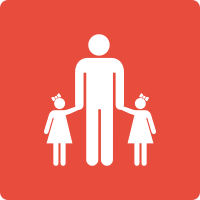
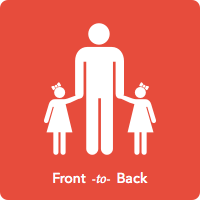
f2b sidebar

diff --git a/source/_includes/header.html b/source/_includes/header.html
@@ -12,19 +12,26 @@
 </div>
 {% include custom/header.html %}
 <nav id="marketing">
-    <p class="apps">I've made some Apps! Go get them.</p>
-    <ul class="apps">
+    <p class="apps sidebar-stuff">I've made some Apps! Go get them.</p>
+    <ul class="apps sidebar-stuff">
         <li>
           <a class="app-icon" href="https://itunes.apple.com/us/app/emergency-contacts-ice-widget/id931010448?ls=1&mt=8"><img src="/images/emergencycontacts-40.png" alt="Emergency Contacts" />
-          <a href="http://emergencycontacts.org">Emergency Contacts</a> &mdash; Quick access emergency information on your iPhone</a>
+          <a href="http://emergencycontacts.org">Emergency Contacts</a> &mdash; Quick access emergency information on your iPhone
         </li>
         <li>
           <a class="app-icon" href="https://itunes.apple.com/us/app/zartbonk/id727445952?ls=1&amp;mt=8"><img src="/images/zartbonk-40.png" alt="Zartbonk" />
-          <a href="http://zartbonk.com">Zartbonk</a> &mdash; A soundboard for your iPad</a>
+          <a href="http://zartbonk.com">Zartbonk</a> &mdash; A soundboard for your iPad
         </li>
       </ul>
     </p>
-    <!--<p><a href="https://itunes.apple.com/us/app/zartbonk/id727445952?ls=1&amp;mt=8">Get the app that I made!</a> It's called <a href="http://zartbonk.com">Zartbonk</a>.</p>-->
+
+    <p class="podcasts sidebar-stuff">I also make a podcast. Listen!</p>
+    <ul class="podcasts sidebar-stuff">
+      <li>
+      <a href="https://itunes" class="app-icon"><img src="/images/assets/f2b-art-icon.png" /></a>
+      <a href="http://fronttoback.co">Front to Back</a> &mdash; A show about fathers raising daughters
+      </li>
+    </ul>
 </nav>
 <nav id="sub-nav">
 	<div class="social">

diff --git a/sass/_greyshade.scss b/sass/_greyshade.scss
@@ -41,14 +41,14 @@ body {
     #marketing {
       font-size: 18px;
 
-      .apps {
+      .sidebar-stuff {
         font-family: "helvetica neue", helvetica, sans-serif;
         font-size: 0.8rem;
         line-height: 1.0rem;
         margin-top: 20px;
       }
       
-      ul.apps {
+      ul.sidebar-stuff {
         list-style-type: none;
 
         li {
